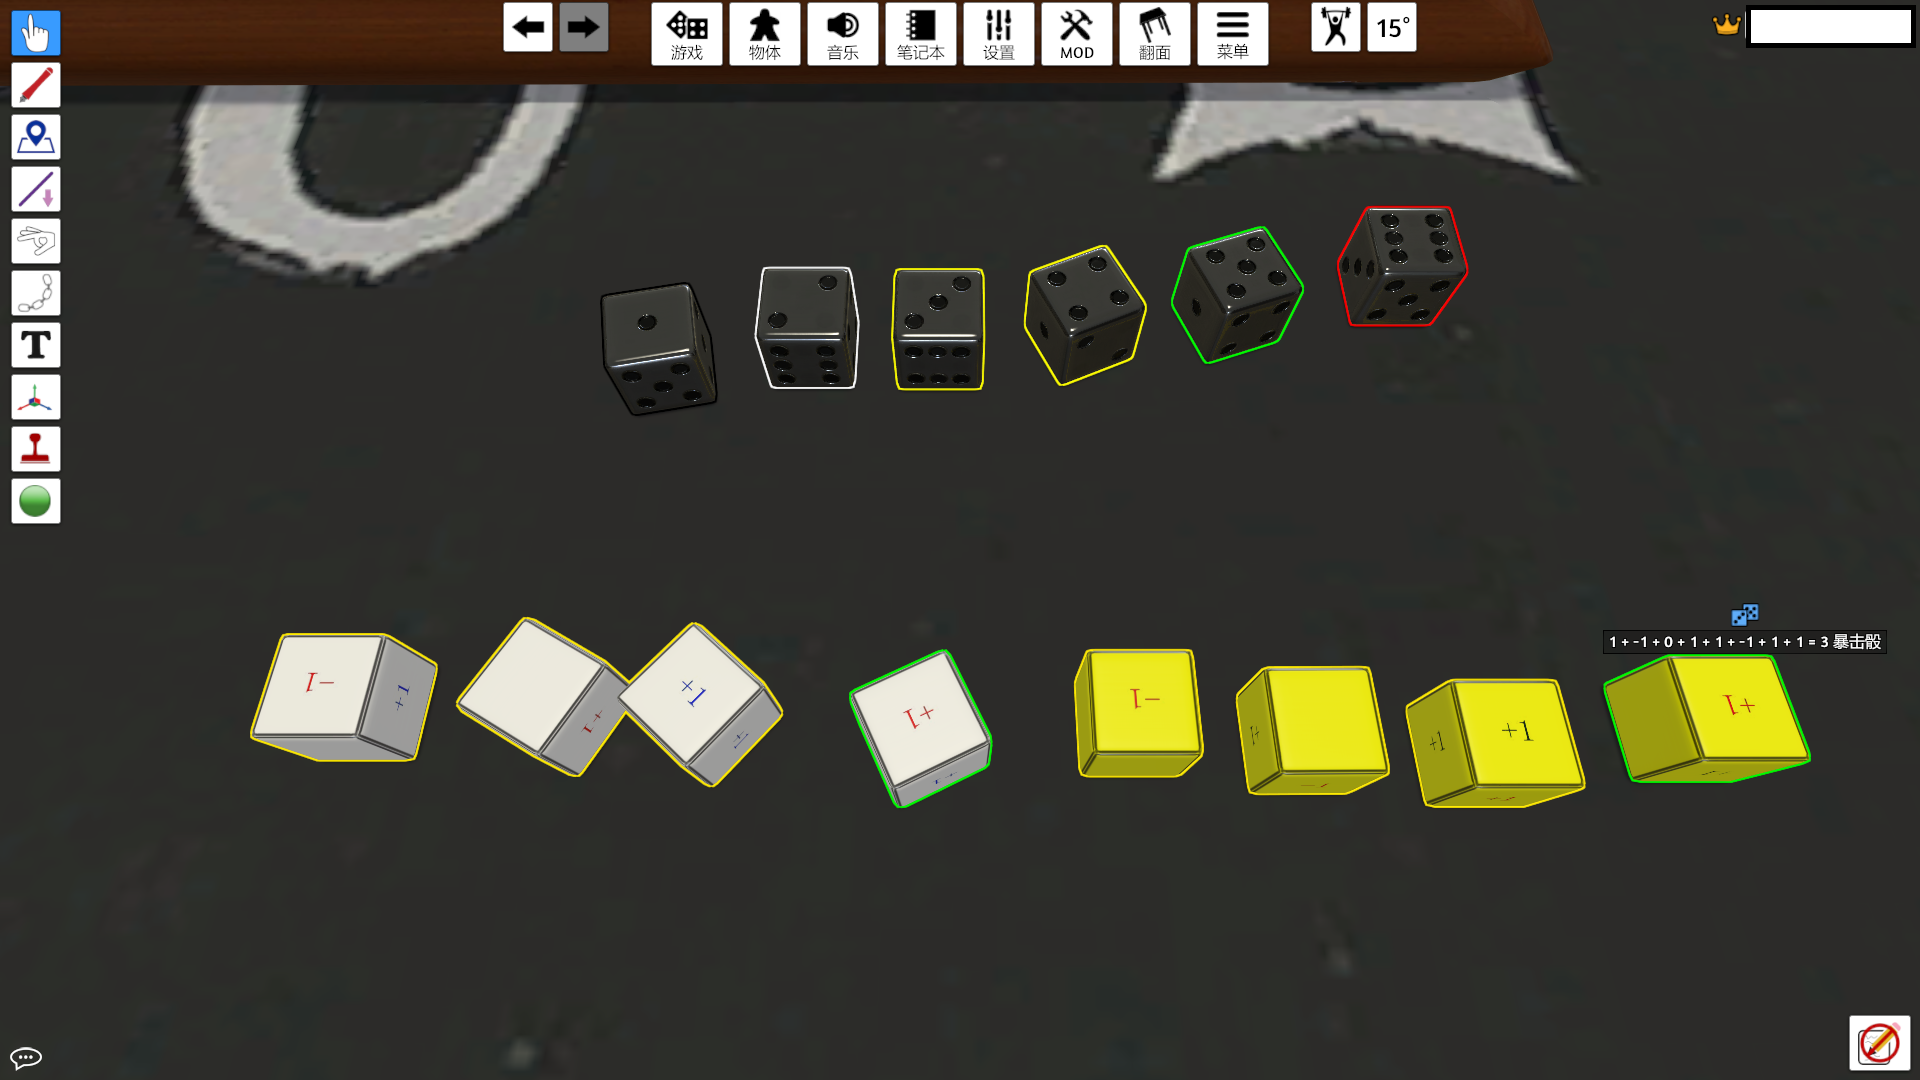
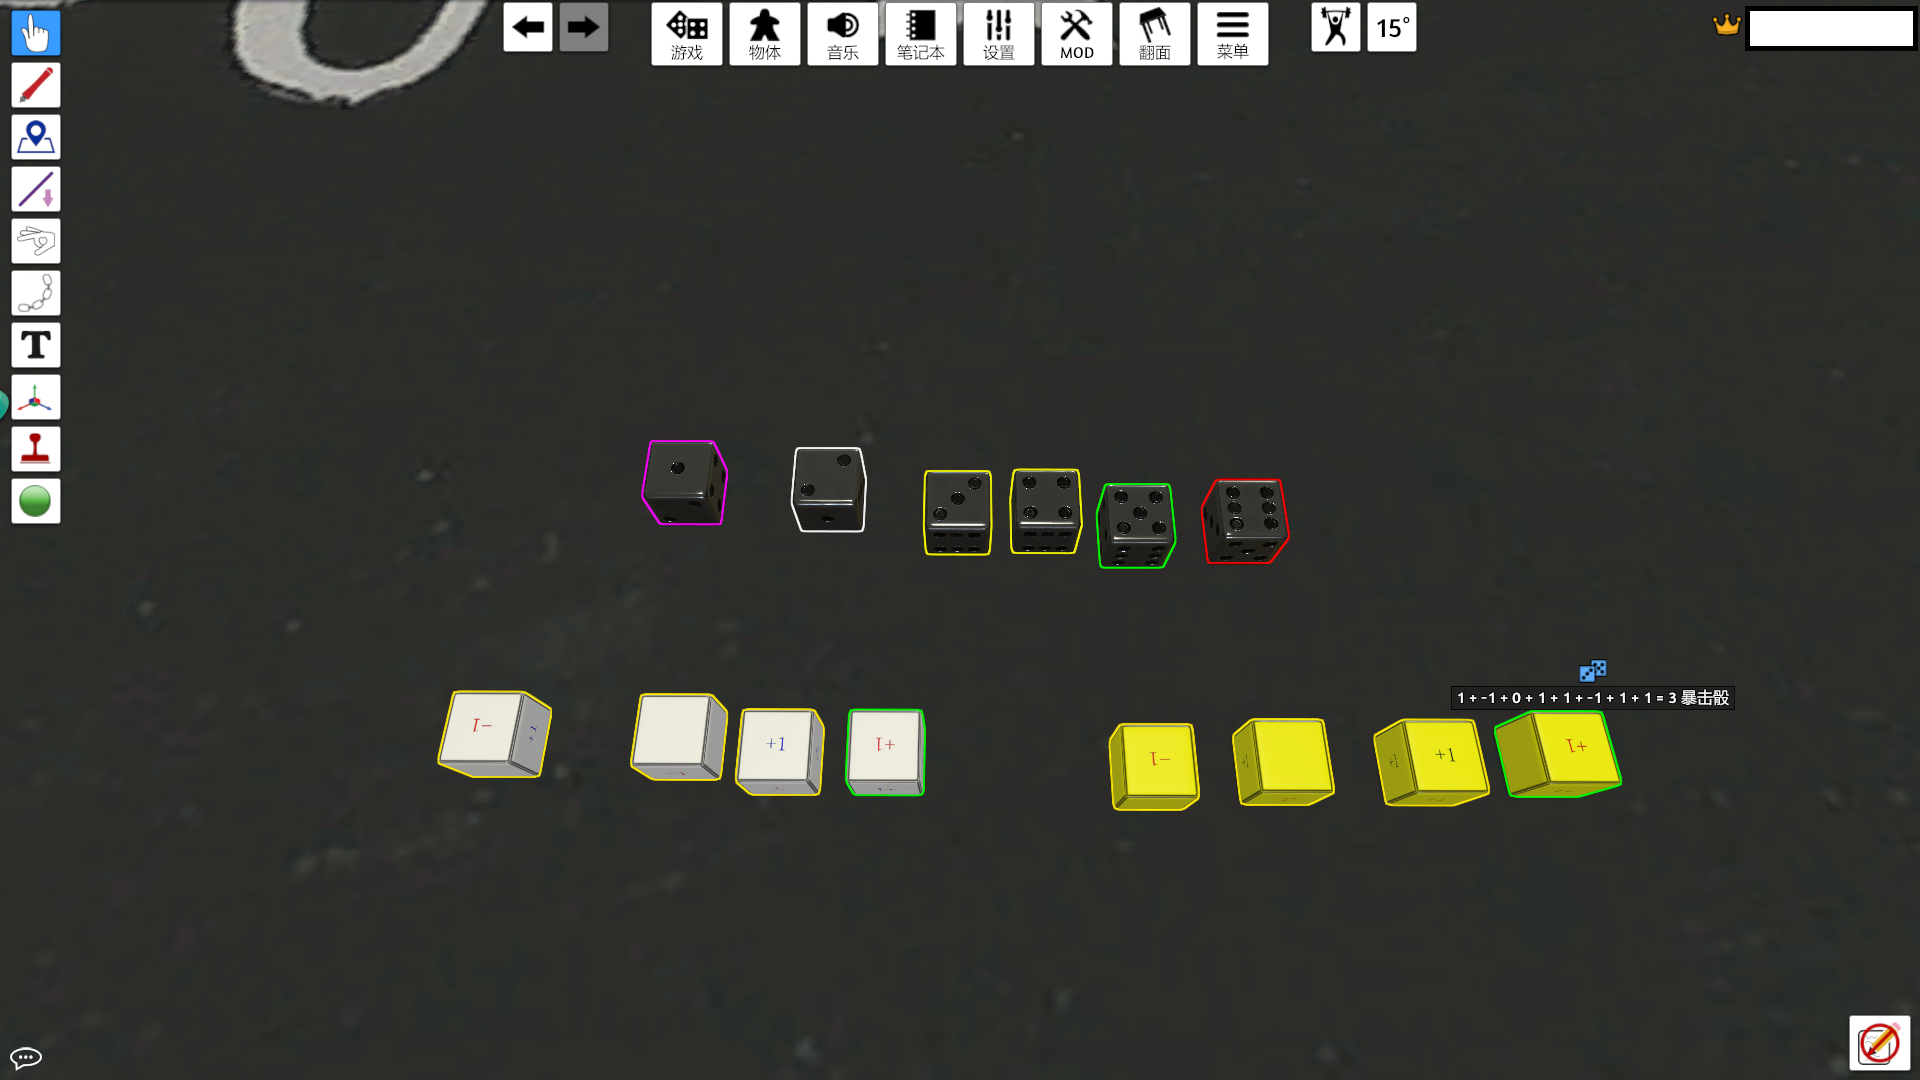
feat: 已集成进原MOD中
1. 移动骰1时调整为紫色高亮 2. 添加脚本说明 3. 调整黑暗之剑故事面板位置

diff --git a/README.md b/README.md
@@ -6,7 +6,7 @@
 2. 角色卡和角色徽章会被以玩家颜色高亮；
    ![游戏开局](img/start.png)
 3. 骰子被附加了更为显眼的脚本：
-    + 移动骰：在1点时为黑色高亮，2点会有白色高亮，3点会有黄色高亮，4~5点绿色高亮，6点红色高亮，分别对应了游戏中无法行动、城市/村庄/道路、平原、森林、龙怒进度上升。
+    + 移动骰：在1点时为紫色高亮，2点会有白色高亮，3点会有黄色高亮，4~5点绿色高亮，6点红色高亮，分别对应了游戏中无法行动、城市/村庄/道路、平原、森林、龙怒进度上升。
     + 判定骰：骰子值已经按照游戏规则换算，框选后投骰子，在结束移动后骰子值会自动合计。骰子为6点时，会被附加绿色高亮，
     + 暴击骰：在判定骰投出6点后使用，数值已按照暴击规则换算，在投出6点时也会被附加绿色高亮。同样可以和判定骰一起框选合计数值。
     ![骰子高光](img/dice_highlight.png)
